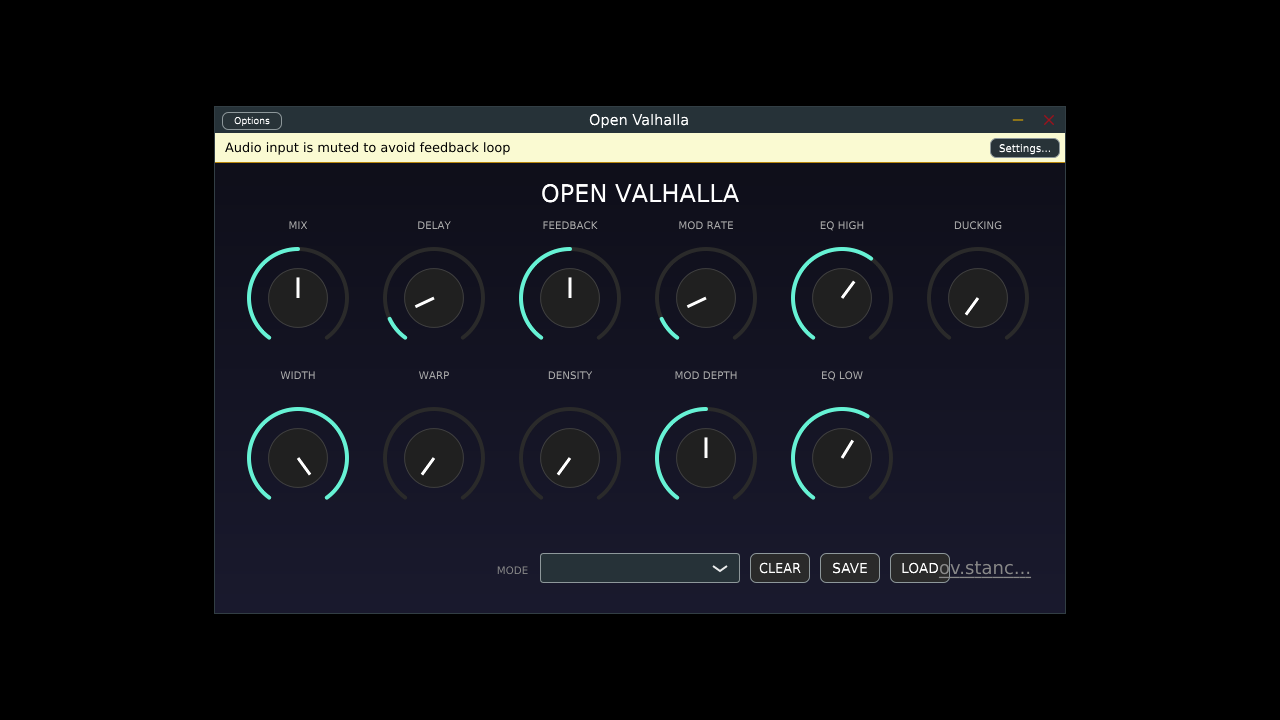
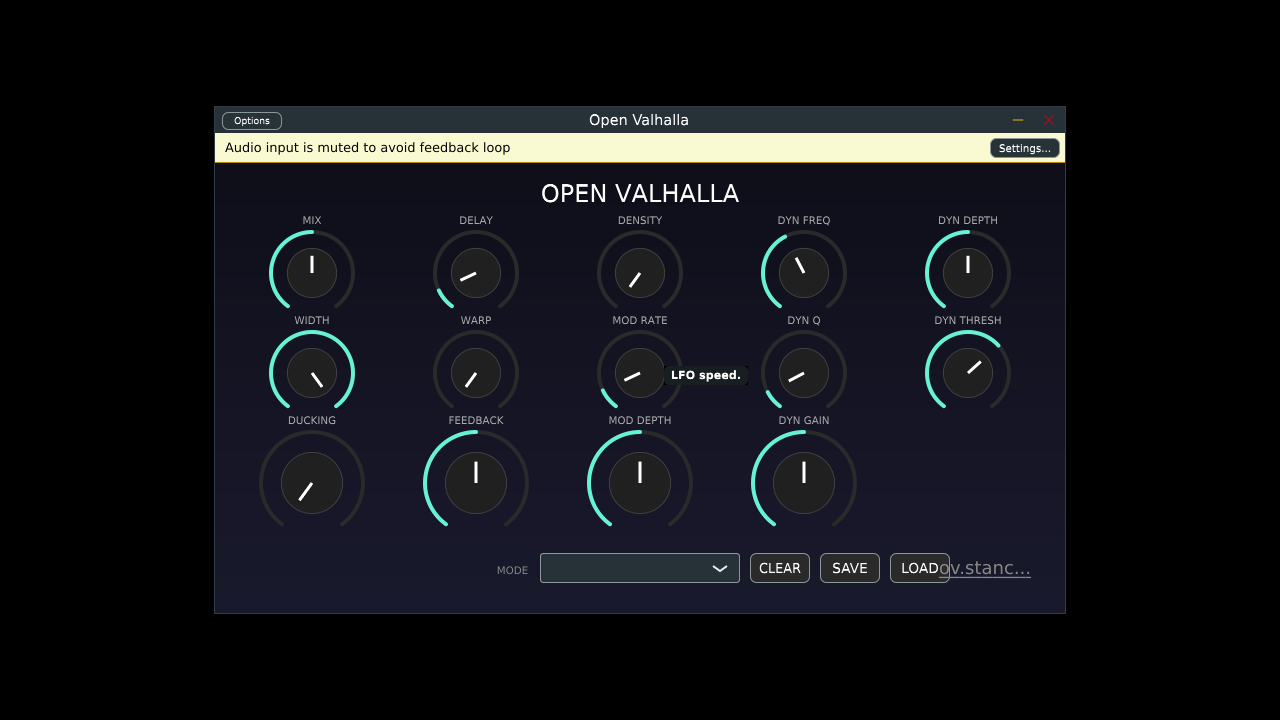
Add Dynamic EQ and Update UI

diff --git a/Source/PluginEditor.cpp b/Source/PluginEditor.cpp
@@ -10,6 +10,8 @@ VST3OpenValhallaAudioProcessorEditor::VST3OpenValhallaAudioProcessorEditor (VST3
     addSlider(mixSlider, mixAtt, "MIX", "MIX");
     addSlider(widthSlider, widthAtt, "WIDTH", "WIDTH");
 
+    addSlider(duckingSlider, duckingAtt, "DUCKING", "DUCKING");
+
     addSlider(delaySlider, delayAtt, "DELAY", "DELAY");
     addSlider(warpSlider, warpAtt, "WARP", "WARP");
 
@@ -19,10 +21,12 @@ VST3OpenValhallaAudioProcessorEditor::VST3OpenValhallaAudioProcessorEditor (VST3
     addSlider(modRateSlider, modRateAtt, "MODRATE", "MOD RATE");
     addSlider(modDepthSlider, modDepthAtt, "MODDEPTH", "MOD DEPTH");
 
-    addSlider(eqHighSlider, eqHighAtt, "EQHIGH", "EQ HIGH");
-    addSlider(eqLowSlider, eqLowAtt, "EQLOW", "EQ LOW");
-
-    addSlider(duckingSlider, duckingAtt, "DUCKING", "DUCKING");
+    // Dynamic EQ
+    addSlider(dynFreqSlider, dynFreqAtt, "DYNFREQ", "DYN FREQ");
+    addSlider(dynQSlider, dynQAtt, "DYNQ", "DYN Q");
+    addSlider(dynGainSlider, dynGainAtt, "DYNGAIN", "DYN GAIN");
+    addSlider(dynDepthSlider, dynDepthAtt, "DYNDEPTH", "DYN DEPTH");
+    addSlider(dynThreshSlider, dynThreshAtt, "DYNTHRESH", "DYN THRESH");
 
     // Mode
     addAndMakeVisible(modeComboBox);
@@ -49,19 +53,6 @@ VST3OpenValhallaAudioProcessorEditor::VST3OpenValhallaAudioProcessorEditor (VST3
 
     modeComboBox.onChange = [this]()
     {
-        // When user changes mode via UI, update defaults
-        // Note: onChange is called when the combo box item is selected.
-        // The attachment might also trigger parameter change.
-        // We want to update AFTER the parameter is set, or just forcefully set parameters.
-        // Since setParametersForMode updates parameters via APVTS, it will update the UI sliders too.
-
-        // However, ComboBoxAttachment syncs the parameter with the ComboBox.
-        // If we change other parameters here, it should be fine.
-
-        // Issue: onChange might be called before the parameter is updated by the attachment?
-        // Actually, attachment listens to the parameter and updates the box, AND listens to the box and updates the parameter.
-        // If we rely on the box index:
-
         audioProcessor.setParametersForMode(modeComboBox.getSelectedId() - 1);
     };
 
@@ -140,8 +131,11 @@ void VST3OpenValhallaAudioProcessorEditor::addSlider(juce::Slider& slider, std::
     else if (paramID == "DENSITY") slider.setTooltip("Adjusts diffusion density.");
     else if (paramID == "MODRATE") slider.setTooltip("LFO speed.");
     else if (paramID == "MODDEPTH") slider.setTooltip("LFO intensity.");
-    else if (paramID == "EQHIGH") slider.setTooltip("High-cut filter.");
-    else if (paramID == "EQLOW") slider.setTooltip("Low-cut filter.");
+    else if (paramID == "DYNFREQ") slider.setTooltip("Dynamic EQ Frequency.");
+    else if (paramID == "DYNQ") slider.setTooltip("Dynamic EQ Bandwidth (Q).");
+    else if (paramID == "DYNGAIN") slider.setTooltip("Dynamic EQ Static Gain.");
+    else if (paramID == "DYNDEPTH") slider.setTooltip("Dynamic EQ Modulation Depth.");
+    else if (paramID == "DYNTHRESH") slider.setTooltip("Dynamic EQ Threshold.");
     else if (paramID == "DUCKING") slider.setTooltip("Compresses reverb when input is loud.");
 
     addAndMakeVisible(slider);
@@ -170,21 +164,6 @@ void VST3OpenValhallaAudioProcessorEditor::paint (juce::Graphics& g)
     g.setColour (juce::Colours::white);
     g.setFont (juce::Font("Futura", 28.0f, juce::Font::bold));
     g.drawFittedText ("OPEN VALHALLA", getLocalBounds().removeFromTop(50), juce::Justification::centred, 1);
-
-    // Draw Group Panels
-    auto drawPanel = [&](juce::Rectangle<int> bounds, juce::String title)
-    {
-        g.setColour(juce::Colour(0xFF252535).withAlpha(0.6f));
-        g.fillRoundedRectangle(bounds.toFloat(), 10.0f);
-        g.setColour(juce::Colour(0xFF353545));
-        g.drawRoundedRectangle(bounds.toFloat(), 10.0f, 1.0f);
-
-        // Subtle Label at bottom of panel? Or maybe not needed if knobs are labeled.
-    };
-
-    // We need the layout coordinates here, which is tricky without recalculating.
-    // A better way is to use a component for groups, but for now we approximate or store rects.
-    // Or we can just draw 'separation' lines.
 }
 
 void VST3OpenValhallaAudioProcessorEditor::resized()
@@ -211,33 +190,38 @@ void VST3OpenValhallaAudioProcessorEditor::resized()
     // Website Link
     websiteLink.setBounds(bottomBar.getRight() - 110, modeComboBox.getY(), 100, 30);
 
-    // Main panels layout
-    // 5 Columns: Mix | Delay | Feedback | Mod | EQ
-
+    // 5 Columns, 3 Rows
     int margin = 10;
-    int cols = 6;
+    int cols = 5;
     int colWidth = (area.getWidth() - (margin * (cols - 1))) / cols;
 
     auto getCol = [&](int index) -> juce::Rectangle<int> {
         return area.withWidth(colWidth).translated(index * (colWidth + margin), 0);
     };
 
-    // Helper to layout 2 knobs in a column
-    auto layoutColumn = [&](int colIndex, juce::Slider& top, juce::Slider& bottom) {
+    // Layout helper for 3 rows
+    auto layoutColumn3 = [&](int colIndex, juce::Slider& row1, juce::Slider& row2, juce::Slider* row3) {
         auto col = getCol(colIndex);
-        int knobHeight = (col.getHeight() - 20) / 2;
-        top.setBounds(col.removeFromTop(knobHeight).reduced(10));
-        bottom.setBounds(col.reduced(10));
+        int knobHeight = (col.getHeight() - 20) / 3;
+
+        row1.setBounds(col.removeFromTop(knobHeight).reduced(5)); // Smaller padding
+        row2.setBounds(col.removeFromTop(knobHeight).reduced(5));
+        if (row3)
+            row3->setBounds(col.reduced(5));
     };
 
-    layoutColumn(0, mixSlider, widthSlider);
-    layoutColumn(1, delaySlider, warpSlider);
-    layoutColumn(2, feedbackSlider, densitySlider);
-    layoutColumn(3, modRateSlider, modDepthSlider);
-    layoutColumn(4, eqHighSlider, eqLowSlider);
+    // Col 1: Mix, Width, Ducking
+    layoutColumn3(0, mixSlider, widthSlider, &duckingSlider);
 
-    // Column 5: Ducking (Top)
-    auto col5 = getCol(5);
-    int knobHeight = (col5.getHeight() - 20) / 2;
-    duckingSlider.setBounds(col5.removeFromTop(knobHeight).reduced(10));
+    // Col 2: Delay, Warp, Feedback
+    layoutColumn3(1, delaySlider, warpSlider, &feedbackSlider);
+
+    // Col 3: Density, ModRate, ModDepth
+    layoutColumn3(2, densitySlider, modRateSlider, &modDepthSlider);
+
+    // Col 4: DynFreq, DynQ, DynGain
+    layoutColumn3(3, dynFreqSlider, dynQSlider, &dynGainSlider);
+
+    // Col 5: DynDepth, DynThresh
+    layoutColumn3(4, dynDepthSlider, dynThreshSlider, nullptr);
 }

diff --git a/Source/ReverbProcessor.cpp b/Source/ReverbProcessor.cpp
@@ -20,8 +20,8 @@ ReverbProcessor::ReverbProcessor()
     chorus.setFeedback(0.0f);
     chorus.setMix(1.0f); // We use chorus purely as a modulator block
 
-    lowPassFilter.setType(juce::dsp::FirstOrderTPTFilterType::lowpass);
-    highPassFilter.setType(juce::dsp::FirstOrderTPTFilterType::highpass);
+    dynamicEqFilter.setType(juce::dsp::StateVariableTPTFilterType::bandpass);
+    detectorFilter.setType(juce::dsp::StateVariableTPTFilterType::bandpass);
 }
 
 ReverbProcessor::~ReverbProcessor()
@@ -35,8 +35,8 @@ void ReverbProcessor::prepare(const juce::dsp::ProcessSpec& spec)
     reverb.prepare(spec);
     delayLine.prepare(spec);
     chorus.prepare(spec);
-    lowPassFilter.prepare(spec);
-    highPassFilter.prepare(spec);
+    dynamicEqFilter.prepare(spec);
+    detectorFilter.prepare(spec);
 
     delayLine.setMaximumDelayInSamples(1.5 * sampleRate);
 
@@ -150,7 +150,6 @@ void ReverbProcessor::process(juce::dsp::ProcessContextReplacing<float>& context
 
         case 16: // Scorpion Tail (Scorpio)
              reverbParams.roomSize = baseRoomSize * 0.7f;
-             highPassFilter.setCutoffFrequency(currentEqLow * 2.0f); // Tweak filter directly
              break;
 
         case 17: // Balance Scale (Libra)
@@ -194,10 +193,6 @@ void ReverbProcessor::process(juce::dsp::ProcessContextReplacing<float>& context
 
     reverb.setParameters(reverbParams);
 
-    lowPassFilter.setCutoffFrequency(currentEqHigh);
-    if (currentMode != 16) // Already set for Scorpio
-        highPassFilter.setCutoffFrequency(currentEqLow);
-
     // PROCESS AUDIO
 
     // Get Audio Block
@@ -223,9 +218,53 @@ void ReverbProcessor::process(juce::dsp::ProcessContextReplacing<float>& context
     // 3. Reverb
     reverb.process(wetContext);
 
-    // 4. EQ
-    lowPassFilter.process(wetContext);
-    highPassFilter.process(wetContext);
+    // Dynamic EQ
+    dynamicEqFilter.setCutoffFrequency(currentDynFreq);
+    dynamicEqFilter.setResonance(currentDynQ);
+    detectorFilter.setCutoffFrequency(currentDynFreq);
+    detectorFilter.setResonance(currentDynQ);
+
+    // Manual process for Dynamic EQ
+    size_t nSamples = wetBlock.getNumSamples();
+    size_t nChannels = wetBlock.getNumChannels();
+
+    float att = 1.0f - std::exp(-1.0f / (0.005f * sampleRate));
+    float rel = 1.0f - std::exp(-1.0f / (0.1f * sampleRate));
+    float threshLinear = std::pow(10.0f, currentDynThresh / 20.0f);
+
+    for (size_t s = 0; s < nSamples; ++s)
+    {
+        float detectorIn = 0.0f;
+        for (size_t ch = 0; ch < nChannels; ++ch)
+            detectorIn += wetBlock.getChannelPointer(ch)[s];
+        detectorIn /= (float)nChannels;
+
+        float filteredDet = detectorFilter.processSample(0, detectorIn);
+        float envIn = std::abs(filteredDet);
+
+        if (envIn > dynEqEnvelope) dynEqEnvelope += (envIn - dynEqEnvelope) * att;
+        else dynEqEnvelope += (envIn - dynEqEnvelope) * rel;
+
+        float dynGain = 0.0f;
+        if (dynEqEnvelope > threshLinear)
+        {
+            float envDb = juce::Decibels::gainToDecibels(dynEqEnvelope + 0.00001f);
+            float excessDb = envDb - currentDynThresh;
+            if (excessDb > 0.0f)
+                 dynGain = currentDynDepth * std::min(1.0f, excessDb / 20.0f);
+        }
+
+        float totalGainDb = currentDynGain + dynGain;
+        float totalGainLin = juce::Decibels::decibelsToGain(totalGainDb);
+
+        // Peak EQ Approximation: Out = In + (Gain - 1) * Bandpass
+        for (size_t ch = 0; ch < nChannels; ++ch)
+        {
+            float inSample = wetBlock.getChannelPointer(ch)[s];
+            float bpSample = dynamicEqFilter.processSample((int)ch, inSample);
+            wetBlock.getChannelPointer(ch)[s] = inSample + (totalGainLin - 1.0f) * bpSample;
+        }
+    }
 
     // Ducking
     if (currentDucking > 0.0f)
@@ -289,13 +328,13 @@ void ReverbProcessor::reset()
     reverb.reset();
     delayLine.reset();
     chorus.reset();
-    lowPassFilter.reset();
-    highPassFilter.reset();
+    dynamicEqFilter.reset();
+    detectorFilter.reset();
 }
 
 void ReverbProcessor::setParameters(float mix, float width, float delay, float warp,
                                     float feedback, float density, float modRate,
-                                    float modDepth, float eqHigh, float eqLow, float ducking, int mode)
+                                    float modDepth, float dynFreq, float dynQ, float dynGain, float dynDepth, float dynThresh, float ducking, int mode)
 {
     currentMix = mix;
     currentWidth = width;
@@ -305,8 +344,11 @@ void ReverbProcessor::setParameters(float mix, float width, float delay, float w
     currentDensity = density;
     currentModRate = modRate;
     currentModDepth = modDepth;
-    currentEqHigh = eqHigh;
-    currentEqLow = eqLow;
+    currentDynFreq = dynFreq;
+    currentDynQ = dynQ;
+    currentDynGain = dynGain;
+    currentDynDepth = dynDepth;
+    currentDynThresh = dynThresh;
     currentDucking = ducking;
     currentMode = mode;
 }

diff --git a/Source/PluginProcessor.cpp b/Source/PluginProcessor.cpp
@@ -53,13 +53,21 @@ juce::AudioProcessorValueTreeState::ParameterLayout VST3OpenValhallaAudioProcess
     layout.add(std::make_unique<juce::AudioParameterFloat>(
         "MODDEPTH", "Mod Depth", juce::NormalisableRange<float>(0.0f, 100.0f, 0.1f), 50.0f));
 
-    // EQ High
+    // Dynamic EQ
     layout.add(std::make_unique<juce::AudioParameterFloat>(
-        "EQHIGH", "EQ High", juce::NormalisableRange<float>(1000.0f, 20000.0f, 1.0f, 0.3f), 5000.0f));
+        "DYNFREQ", "Dyn Freq", juce::NormalisableRange<float>(20.0f, 20000.0f, 1.0f, 0.3f), 1000.0f));
 
-    // EQ Low
     layout.add(std::make_unique<juce::AudioParameterFloat>(
-        "EQLOW", "EQ Low", juce::NormalisableRange<float>(10.0f, 1000.0f, 1.0f, 0.3f), 200.0f));
+        "DYNQ", "Dyn Q", juce::NormalisableRange<float>(0.1f, 10.0f, 0.01f), 1.0f));
+
+    layout.add(std::make_unique<juce::AudioParameterFloat>(
+        "DYNGAIN", "Dyn Gain", juce::NormalisableRange<float>(-18.0f, 18.0f, 0.1f), 0.0f));
+
+    layout.add(std::make_unique<juce::AudioParameterFloat>(
+        "DYNDEPTH", "Dyn Depth", juce::NormalisableRange<float>(-18.0f, 18.0f, 0.1f), 0.0f));
+
+    layout.add(std::make_unique<juce::AudioParameterFloat>(
+        "DYNTHRESH", "Dyn Thresh", juce::NormalisableRange<float>(-60.0f, 0.0f, 0.1f), -20.0f));
 
     // Ducking
     layout.add(std::make_unique<juce::AudioParameterFloat>(
@@ -222,14 +230,17 @@ void VST3OpenValhallaAudioProcessor::processBlock (juce::AudioBuffer<float>& buf
     auto density = apvts.getRawParameterValue("DENSITY")->load();
     auto modRate = apvts.getRawParameterValue("MODRATE")->load();
     auto modDepth = apvts.getRawParameterValue("MODDEPTH")->load();
-    auto eqHigh = apvts.getRawParameterValue("EQHIGH")->load();
-    auto eqLow = apvts.getRawParameterValue("EQLOW")->load();
+    auto dynFreq = apvts.getRawParameterValue("DYNFREQ")->load();
+    auto dynQ = apvts.getRawParameterValue("DYNQ")->load();
+    auto dynGain = apvts.getRawParameterValue("DYNGAIN")->load();
+    auto dynDepth = apvts.getRawParameterValue("DYNDEPTH")->load();
+    auto dynThresh = apvts.getRawParameterValue("DYNTHRESH")->load();
     auto ducking = apvts.getRawParameterValue("DUCKING")->load();
     auto mode = static_cast<int>(apvts.getRawParameterValue("MODE")->load());
 
     reverbProcessor.setParameters(
         mix, width, delay, warp, feedback, density,
-        modRate, modDepth, eqHigh, eqLow, ducking, mode
+        modRate, modDepth, dynFreq, dynQ, dynGain, dynDepth, dynThresh, ducking, mode
     );
 
     juce::dsp::AudioBlock<float> block(buffer);
@@ -381,8 +392,11 @@ void VST3OpenValhallaAudioProcessor::resetAllParametersToDefault()
     if (auto* p = apvts.getParameter("DENSITY")) p->setValueNotifyingHost(p->convertTo0to1(0.0f));
     if (auto* p = apvts.getParameter("MODRATE")) p->setValueNotifyingHost(p->convertTo0to1(0.5f));
     if (auto* p = apvts.getParameter("MODDEPTH")) p->setValueNotifyingHost(p->convertTo0to1(50.0f));
-    if (auto* p = apvts.getParameter("EQHIGH")) p->setValueNotifyingHost(p->convertTo0to1(5000.0f));
-    if (auto* p = apvts.getParameter("EQLOW")) p->setValueNotifyingHost(p->convertTo0to1(200.0f));
+    if (auto* p = apvts.getParameter("DYNFREQ")) p->setValueNotifyingHost(p->convertTo0to1(1000.0f));
+    if (auto* p = apvts.getParameter("DYNQ")) p->setValueNotifyingHost(p->convertTo0to1(1.0f));
+    if (auto* p = apvts.getParameter("DYNGAIN")) p->setValueNotifyingHost(p->convertTo0to1(0.0f));
+    if (auto* p = apvts.getParameter("DYNDEPTH")) p->setValueNotifyingHost(p->convertTo0to1(0.0f));
+    if (auto* p = apvts.getParameter("DYNTHRESH")) p->setValueNotifyingHost(p->convertTo0to1(-20.0f));
     if (auto* p = apvts.getParameter("DUCKING")) p->setValueNotifyingHost(p->convertTo0to1(0.0f));
 }
 

diff --git a/Source/ReverbProcessor.h b/Source/ReverbProcessor.h
@@ -13,7 +13,7 @@ public:
 
     void setParameters(float mix, float width, float delay, float warp,
                        float feedback, float density, float modRate,
-                       float modDepth, float eqHigh, float eqLow, float ducking, int mode);
+                       float modDepth, float dynFreq, float dynQ, float dynGain, float dynDepth, float dynThresh, float ducking, int mode);
 
 private:
     juce::dsp::Reverb reverb;
@@ -21,8 +21,9 @@ private:
 
     juce::dsp::DelayLine<float, juce::dsp::DelayLineInterpolationTypes::Linear> delayLine { 192000 }; // Max 2s roughly
     juce::dsp::Chorus<float> chorus; // For modulation
-    juce::dsp::FirstOrderTPTFilter<float> lowPassFilter;
-    juce::dsp::FirstOrderTPTFilter<float> highPassFilter;
+
+    juce::dsp::StateVariableTPTFilter<float> dynamicEqFilter;
+    juce::dsp::StateVariableTPTFilter<float> detectorFilter;
 
     double sampleRate = 44100.0;
 
@@ -35,13 +36,20 @@ private:
     float currentDensity = 0.0f;
     float currentModRate = 0.5f;
     float currentModDepth = 50.0f;
-    float currentEqHigh = 5000.0f;
-    float currentEqLow = 200.0f;
+
+    // Dynamic EQ Params
+    float currentDynFreq = 1000.0f;
+    float currentDynQ = 1.0f;
+    float currentDynGain = 0.0f;
+    float currentDynDepth = 0.0f;
+    float currentDynThresh = -20.0f;
+
     float currentDucking = 0.0f;
     int currentMode = 0;
 
     // Envelope follower state
     float envelope = 0.0f;
+    float dynEqEnvelope = 0.0f;
 
     // Pre-allocated buffer for processing
     juce::AudioBuffer<float> wetBuffer;

diff --git a/Source/PluginEditor.h b/Source/PluginEditor.h
@@ -120,16 +120,16 @@ private:
     juce::Slider delaySlider, warpSlider;
     juce::Slider feedbackSlider, densitySlider;
     juce::Slider modRateSlider, modDepthSlider;
-    juce::Slider eqHighSlider, eqLowSlider;
+    juce::Slider dynFreqSlider, dynQSlider, dynGainSlider, dynDepthSlider, dynThreshSlider;
     juce::Slider duckingSlider;
 
     // Attachments
     std::unique_ptr<juce::AudioProcessorValueTreeState::SliderAttachment> mixAtt, widthAtt;
     std::unique_ptr<juce::AudioProcessorValueTreeState::SliderAttachment> delayAtt, warpAtt;
-    std::unique_ptr<juce::AudioProcessorValueTreeState::SliderAttachment> duckingAtt;
     std::unique_ptr<juce::AudioProcessorValueTreeState::SliderAttachment> feedbackAtt, densityAtt;
     std::unique_ptr<juce::AudioProcessorValueTreeState::SliderAttachment> modRateAtt, modDepthAtt;
-    std::unique_ptr<juce::AudioProcessorValueTreeState::SliderAttachment> eqHighAtt, eqLowAtt;
+    std::unique_ptr<juce::AudioProcessorValueTreeState::SliderAttachment> dynFreqAtt, dynQAtt, dynGainAtt, dynDepthAtt, dynThreshAtt;
+    std::unique_ptr<juce::AudioProcessorValueTreeState::SliderAttachment> duckingAtt;
 
     // Labels
     std::vector<std::unique_ptr<juce::Label>> labels;
